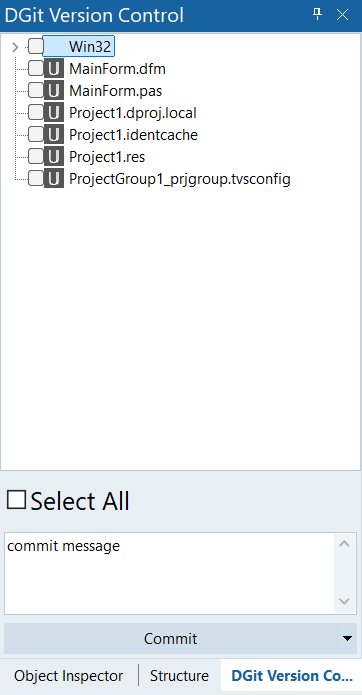
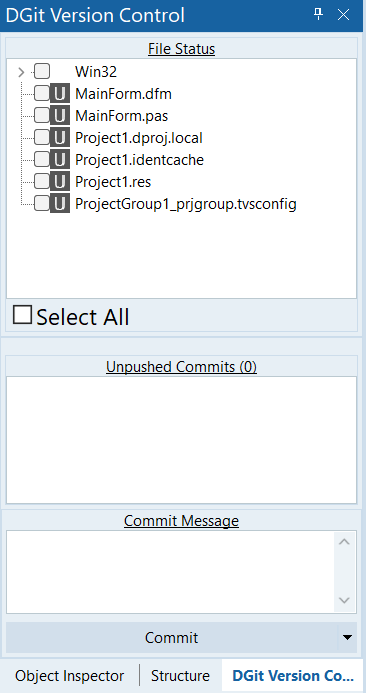
Finilizing Unpushed Commits feature and README.md file

Changed region(s): [[0.0, 0.0, 1.0, 1.0], [0.8508, 0.0, 0.8812, 0.0303]]

diff --git a/README.md b/README.md
@@ -9,6 +9,7 @@ DGit is a fully native, dockable Git plugin for the Delphi IDE that brings moder
 ![DGit Screenshot](varliklar/ss1.png)
 ![DGit Screenshot](varliklar/ss2.png)
 ![DGit Screenshot](varliklar/ss3.png)
+![DGit Screenshot](varliklar/ss4.png)
 
 ---
 
@@ -33,6 +34,12 @@ DGit is a fully native, dockable Git plugin for the Delphi IDE that brings moder
 - Commit & Push
 - Automatic branch name configuration for new repositories
 
+### History & Commit Tracking
+
+- **Unpushed Commits Panel:** Dedicated, resizable bottom panel displaying pending local commits.
+- **Git History Screen:** Complete log view detailing Hash, Author, Date, Message, and Push Status.
+- **Commit Details View:** Double-click any commit to instantly see file changes and line statistics (+ / -) in a dynamic, terminal-styled window.
+
 ### Branch Management
 
 - Create branches
@@ -50,7 +57,6 @@ DGit is a fully native, dockable Git plugin for the Delphi IDE that brings moder
 
 - Generate `.gitignore`
 - Generate `README.md`
-
 ---
 
 ## Installation
@@ -77,6 +83,7 @@ git clone https://github.com/yushadev0/dgit.git
 - Pull
 - Visual Diff
 - ~~Git History~~
+- ~~Unpushed Commits~~
 - Conflict Resolution
 - Much beautiful track icons
 ---